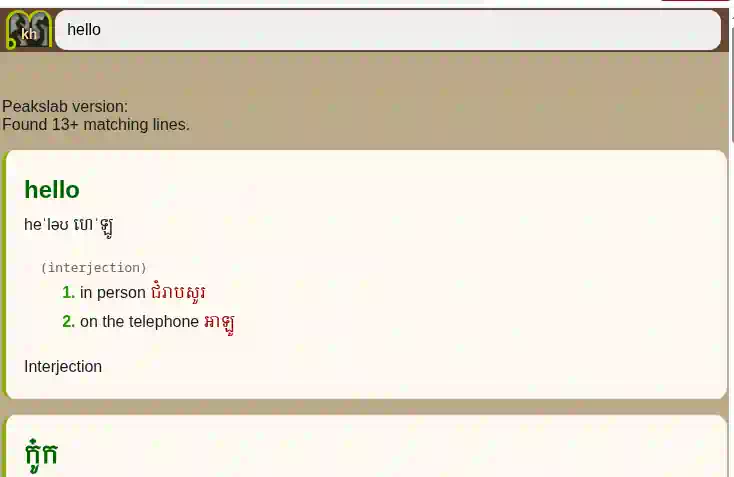
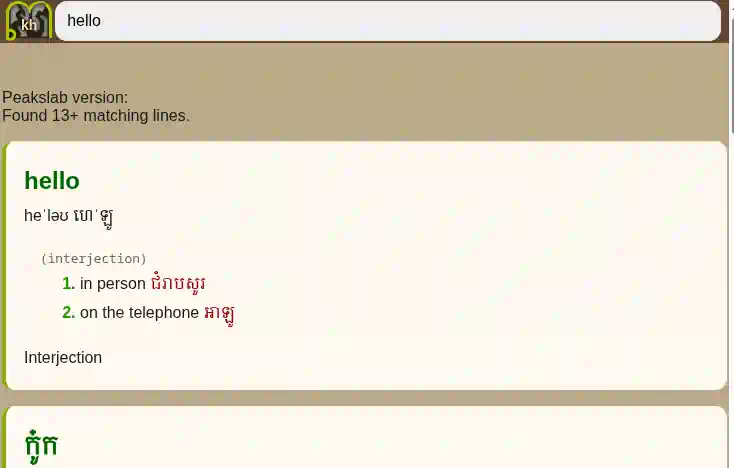
Added a lot of docs

diff --git a/docs/GENERATE_PEAK_FILE.md b/docs/GENERATE_PEAK_FILE.md
@@ -1,0 +1,32 @@
+# Generate Peak File
+
+So first off, you take a tsv file that has inline HTML formatting and probably looks something like this:
+
+```
+A eɪ  អេយ៍ <ul><li><p-n>(symbol)</p-n><ol><li><p-l> @ប្រើដើម្បីដាក់ឈ្មោះផ្នែក រឺ ចំណែកទី១ នៃវត្ថុអ្វីមួយតាមធម្មដាគេសរសេរ</p-l> a)<p-l> @រឺ</p-l> <p-n>(a)</p-n></li><li><p-l>@. (ប្រើនៅប្រទេសអង់គ្លេសដោយដាក់នៅមុខលេខផ្លូវ ដើម្បីសំគាល់ថាជាផ្លូវធំ)</p-l></li><li><p-l> @(ប្រើនៅពីមុខលេខដើម្បីបង្ហាញខ្នាតក្រដាស)</p-l> an A4<p-l> @ក្រដាស</p-l> A4 4 <p-n>(abbreviation)</p-n><p-l> @អំពែ,ចំលើយ</p-l></li></ol></li></ul> symbol
+a la mode ˌɑ:lɑ:ˈməʊd ˌអាឡា 'មូដ <ul><li><p-n>(adverb)</p-n><p-l> @ដោយចំណូលចិត្ត, ដោយនិយមយ៉ាងច្រើន</p-l><br/> dress ~<p-l> @តាមសម័យ (គំនិត, សំលៀកបំពាក់)</p-l></li><li><p-n>(adjective)</p-n><ol><li><p-l> @គំនិតដែលភ្ញាក់រលឹក </p-l></li><li><p-l> @នាមស្ថិតនៅជាប់ពីក្រោយ, (អាហារ) ដែលមានដាក់ការ៉េម </p-l><br/>pie ~<p-l> @មានដាក់ការ៉េមពីលើ </p-l></li></ol></li></ul> adverb
+```
+
+and you run `./peakgen file.tsv output.peak(.zst)` this will make you a peak file that can be loaded and searched by PeakSlab. PeakSlab will remove all the HTML tags and capital letters and zero-width-spaces and put references to them in the tag section of the peak file. This way the text can be searched without all the markup getting in the way.
+
+## Markers and Tabs
+
+Note that peakslab is not really column based. You can't search by columns specifically, it's just syntactic stuff. But PeakSlab considers a tab to be like the end of a string of text, so if you put the **@** index marker and then some text and then a tab, that text will be considered a synonym for that entry. It doesn't need to end in a tab, and entries do not need to have the same number of tabs at all.
+
+You can even nest index markers, e.g. `@Jesus @Christ`.
+This makes it so that `Jesus Christ` and `Christ` are both synonyms for whatever entry that is, but not `Jesus` since there's no tab or null delimeter after `@Jesus`.
+
+PeakSlab automatically considers the text up to the first tab to be the headword of that entry. But an entry doesn't need to have a tab at all, but in that case the full text of that line will be the headword.
+
+### Secondary Marker
+
+Just as **@** is the primary marker for synonyms and such, **^** is the secondary marker. Secondary markers are indexed, but they're not considered to be authorative synonyms only to be words that appear in the headword that may be of immediate interest. You could put things like `^adjective` or categories for this, but there's no hard rules. I haven't actually tried using them yet other than in initial creation. Full brute search with Stringzilla is so fast that these might not be necessary at all.
+
+# PeakSlab markup
+
+I don't really like putting `<div class="ipa">` everywhere, especially since it becomes really hard to know which thing the closing `</div>` tag belongs to, so I made my own custom elements. (You don't have to use them, but I think they're nice.)
+
+- `<p-a>other word</p-a>` This tag makes a clickable link that opens a popup-modal with the definition of **other word**.
+- `<p-l>សុខសប្បាយ</p-l>` this is a **language** tag to differentiate languages when they're packed together so you can have a sentence and its translation flow together but still be distinct.
+- `<p-n>Notes</p-n>` This is great for putting notes or position and other stuff that doesn't need to be as prominent.
+- `<p-ipa>ɑ:lɑ:ˈməʊd</p-ipa>` for putting pronounciation in.

diff --git a/README.md b/README.md
@@ -19,7 +19,7 @@ Current languages:
 - Indonesian
 - Levantine (Lebanese Arabic)
 
-![April 2026](screenshot-2025-04-27.webp)
+![April 2026](docs/screenshot-2026-04-27.webp)
 
 # AI Rant
 
@@ -39,7 +39,7 @@ For these tests I ran my laptop connected to my Phone's hotspot to serve the pag
 | .peak.zst split | 570ms  | 1.38x | 11mb     |
 | .peak.zst split (dual worker)| 479ms  | 1.65x | 11mb     |
 
-![SQLite3 version. July 2025](screenshot-2025-07-15.webp)
+![SQLite3 version. July 2025](docs/screenshot-2025-07-15.webp)
 
 ## Format File size 
 |  Format       | File size | Percentage |
@@ -89,35 +89,17 @@ This project uses the following libraries:
 
 ## Peak file
 
-The peak format is basically a tsv file with tags (for substitutions, like a mini dictionary) and 3 indexes at the beginning. Very simple.
-(The first index set must be strictly linear to make data extraction simple, thus the lines are sorted in the generator so that the index is linear)
+This is a [custom format](docs/PEAK_FILE.md) built to be very fast to load (cast to a c-struct and done) and very fast to search with 3 binary search indexes built in. It's very similar to a TSV file and is generated from them.
 
-- 0-7: binarybyte (1 byte); 2: magicnum (3 bytes); 5: magicstr (4 bytes);
-- 8-15:	version (2 bytes); features (1 byte); btagdef_idx (1 byte); btag_idx (1 byte); btag1 (1 byte); btag2 (1 byte); bline_idx (1 byte);
-- 16-23: tagdef_idx_start (4 bytes); tagdef_idx_len (4 bytes);
-- 24-31:  tagdef_start (4 bytes); tagdef_len (4 bytes); 
-- 32-39:  tag_idx_start (4 bytes); tag_idx_len (4 bytes);
-- 40-47: tag_start (4 bytes); tag_len (4 bytes); 
-- 48-55: line_idx_start (4 bytes); line_idx_len (4 bytes);
-- 56-63: line_start (4 bytes); line_len (4 bytes);
-- 64-71: idx2_start (4 bytes); idx2_len (4 bytes);
-- 72-79: idx3_start (4 bytes); idx3_len (4 bytes);
-- 80+: Data, can be organized in any order because the header has offsets to all the points. But peakgen generates data in this order:
-
-	- tagdef_idx
-	- tagdef
-	- tag_idx
-	- tag
-	- idx2 (you can mark something to be added to this index by putting a '@' before the word. If you want to use an actuall @ in your tsv, double it to escape the index.)
-	- idx3 (Same thing as idx2 but we use ^ instead.)
-	- line_idx (Main indexes)
-	- tsv file or binary slabs
- 
-The slab format is just like the peak format with a tab delimited header, however that header is ended by a null character to signify the start of binary data.
+A Peak file is not a database, there's no transactions or inserts or writes, just _reads_, as it should be for ultimate speed and simplicity.
 
 These peak files can then be compressed using zstdandard compression which is very quick for decompressing and has a good compression ratio.
 
 There's an <a href="https://peakslab.org/peakgen.html">online version of the PeakSlab Generator</a> because I hate when a dictionary converter stops working or has 100 dependencies and you can't compile it any more without rewriting it. (Only works for Peak files at the moment).
+
+## Slab file
+
+A Slab file is like a peak file except instead of the data being text it's binaries. That allows for storing lots of little files with searchable headers that can seamlessly be integrated into the results of a search.
 
 ## input file support
 - tsv file

diff --git a/docs/PEAK_FILE.md b/docs/PEAK_FILE.md
@@ -1,0 +1,37 @@
+# Peak file
+
+The peak format is basically a tsv file with tags (for substitutions, like a mini dictionary) and 3 indexes at the beginning. Very simple.
+(The first index set must be strictly linear to make data extraction simple, thus the lines are sorted in the generator so that the index is linear)
+
+## Peak Header
+<table>
+<tr><td>binarybyte: 0x0</td><td colspan="3">magicnum[3]: 0xF2,0xFC,0xF3</td><td colspan="4">magicstr[4]: 'P' 'e' 'a' 'k'</td></tr>
+<tr><td colspan="2">uint16\_t version: 0x2</td><td>features: FLAGS (SLAB)</td><td>btagdef\_idx</td><td>btag\_idx</td><td>btag1</td><td>btag2</td><td>bline\_idx</td></tr>
+<tr><td colspan="4">tagdef\_idx\_start</td><td colspan="4">tagdef\_idx\_len</td></tr>
+<tr><td colspan="4">tagdef\_start</td><td colspan="4">tagdef\_len</td></tr>
+<tr><td colspan="4">tag\_idx\_start</td><td colspan="4">tag\_idx\_len</td></tr>
+<tr><td colspan="4">tag\_start</td><td colspan="4">tag\_len</td></tr>
+<tr><td colspan="4">line\_idx\_start</td><td colspan="4">line\_idx\_len</td></tr>
+<tr><td colspan="4">line\_start</td><td colspan="4">line\_len</td></tr>
+<tr><td colspan="4">idx2\_start</td><td colspan="4">idx2\_len</td></tr>
+<tr><td colspan="4">idx3\_start</td><td colspan="4">idx3\_len</td></tr>
+</table>
+
+- 80+: Data, can be organized in any order because the header has offsets to all the points. But peakgen generates data in this order:
+
+	- tagdef_idx
+	- tagdef
+	- tag_idx
+	- tag
+	- idx2 (you can mark something to be added to this index by putting a '@' before the word. If you want to use an actuall @ in your tsv, double it to escape the index.)
+	- idx3 (Same thing as idx2 but we use ^ instead.)
+	- line_idx (Main indexes)
+	- tsv file or binary slabs
+ 
+The slab format is just like the peak format with a tab delimited header, however that header is ended by a null character to signify the start of binary data.
+
+These peak files can then be compressed using zstdandard compression which is very quick for decompressing and has a good compression ratio.
+
+There's an <a href="https://peakslab.org/peakgen.html">online version of the PeakSlab Generator</a> because I hate when a dictionary converter stops working or has 100 dependencies and you can't compile it any more without rewriting it. (Only works for Peak files at the moment).
+
+

diff --git a/docs/ADD_LANGUAGE.md b/docs/ADD_LANGUAGE.md
@@ -1,0 +1,10 @@
+# Add a language
+
+So you want to add a language, or use peakslab in your own project? Great.
+There's a little script that'll help you along the way.
+
+```
+./setupnewlang.sh NEWNAME LANG_CODE APPNAME
+```
+
+This will make a new folder that is a derived from the Chitonga folder with everything changed to be for the new language. Make sure to edit `config.js` to update the dictionary list. Also add any new files to `sw.js` so they get tracked and cached properly by the service worker.
